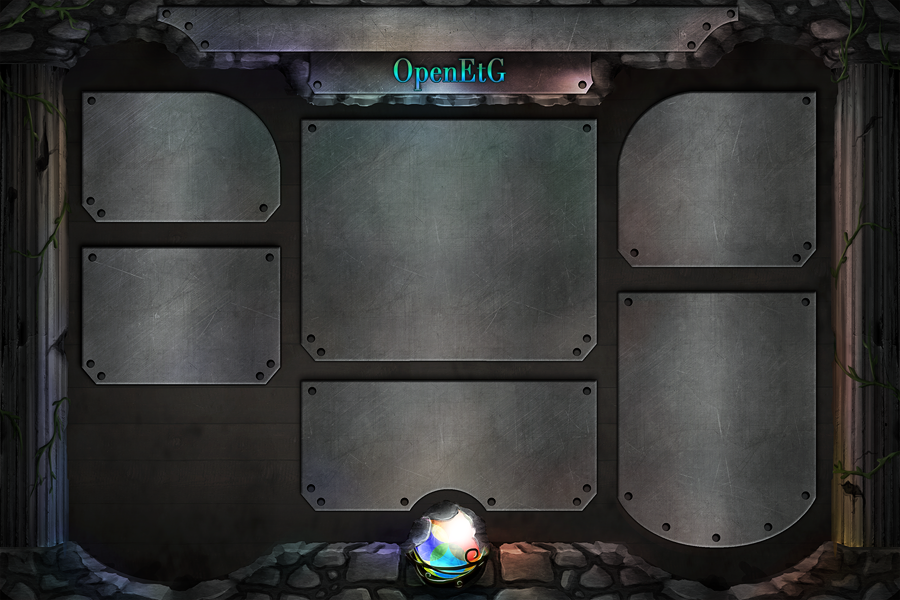
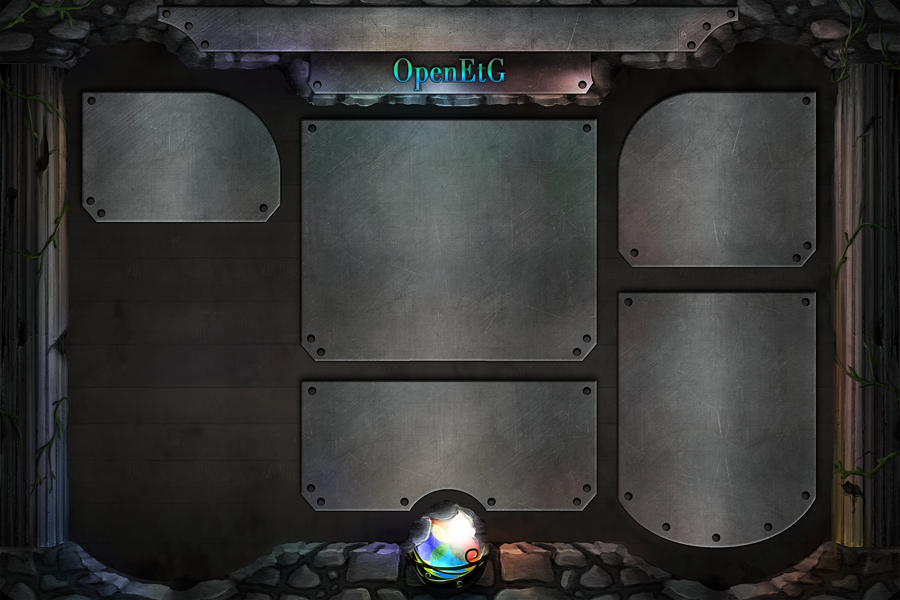
Fix changepass clearing, add mobile/kong friendly chat in main menu

Changed region(s): [[0.0622, 0.39, 0.3111, 0.66]]

diff --git a/views/MainMenu.js b/views/MainMenu.js
@@ -49,6 +49,7 @@ var tipjar = [
 	"At Wealth T50 you can see which players have the highest wealth. Wealth is a combination of current gold & one's cardpool",
 	"Throttling means that the effect is limited to 2 procs when attacking multiple times with adrenaline",
 ];
+var menuChat = chat.MainMenuChat;
 var bg_main = new Image();
 bg_main.src = "assets/bg_main.png";
 bg_main.className = "bgimg";
@@ -89,8 +90,9 @@ function initEndless(){
 }
 module.exports = function(nymph) {
 	var popdom, stage = {endnext: function(){
-		setPopup(null);
 		document.removeEventListener("mousemove", resetTip);
+		menuChat.style.display = "none";
+		return setPopup(null);
 	}};
 	function setPopup(ele){
 		if (popdom) document.body.removeChild(popdom);
@@ -149,12 +151,12 @@ module.exports = function(nymph) {
 	});
 	var div = stage.dom = dom.div(bg_main,
 		[196, 4, tipbox, tinfo, nextTip],
-		[86, 248, leadbox, titleText("Leaderboards"), bwealth, document.createElement("br")],
+		[626, 436, leadbox, titleText("Leaderboards"), bwealth, document.createElement("br")],
 		[304, 120, aibox, titleText("AI Battle")],
 		[620, 92, deckbox,
 			[14, 108, ["Editor", require("./Editor"), mkSetTip("Edit & manage your decks")]],
 		],
-		[620, 300, playbox]);
+		[616, 300, playbox]);
 	addCostRewardHeaders(aibox);
 	addCostRewardHeaders(arenabox);
 	[dom.button("Commoner", mkAi.mkAi(0), mkSetTip("Commoners have no upgraded cards & mostly common cards")),
@@ -224,6 +226,15 @@ module.exports = function(nymph) {
 			dom.add(div, [92, 340, oracle]);
 			dom.svgToSvg(oracle, svg.card(showcard));
 			if (sock.user.daily == 0) sock.user.daily = 128;
+		} else {
+			menuChat.style.display = "";
+			menuChat.scrollTop = menuChat.scrollHeight;
+			dom.add(div, [99, 532, dom.input("Chat", null, null, function (e){
+				if (e.keyCode == 13){
+					if (!this.value.match(/^\s*$/)) sock.userEmit("chat", {msg:this.value});
+					this.value = "";
+				}
+			})]);
 		}
 	}
 	document.addEventListener("mousemove", resetTip);
@@ -233,7 +244,6 @@ module.exports = function(nymph) {
 			sock.userEmit(cmd);
 			sock.user = undefined;
 			options.remember = false;
- 			if (typeof localStorage !== "undefined") delete localStorage.remember;
 		}
 		require("./Login")();
 	}
@@ -312,8 +322,7 @@ module.exports = function(nymph) {
 		dom.add(deckbox, deckLabel, quickslotsdiv);
 		var bsettings = dom.button("Settings", function() {
 			if (popdom && popdom.id == "settingspane"){
-				setPopup(null);
-				return;
+				return setPopup(null);
 			}
 			var div = dom.box(267, 156);
 			dom.style(div, {

diff --git a/chat.js b/chat.js
@@ -8,17 +8,21 @@ function addSpan(span, name) {
 	}else{
 		var tabBox = chatBox;
 	}
-	if (tabBox != tabMap.Main[0] && tabBox != tabMap.Stats[0]){
-		addSpan(span.cloneNode(true), "Main")
+	if (tabBox != tabMap.Main[0] && tabBox != tabMap.Stats[0] && name != "MainMenu"){
+		addSpan(span.cloneNode(true), "Main");
+	} else if (tabBox == tabMap.Main[0]) {
+		addSpan(span.cloneNode(true), "MainMenu");
 	}
 	span.appendChild(document.createElement("br"));
 	if (tabBox == chatBox){
-		var scroll = Math.abs(chatBox.scrollTop - chatBox.scrollHeight + chatBox.offsetHeight) < 2;
-		chatBox.appendChild(span);
-		if (scroll) chatBox.scrollTop = chatBox.scrollHeight;
+		var scroll = Math.abs(tabBox.scrollTop - tabBox.scrollHeight + tabBox.offsetHeight) < 2;
+		tabBox.appendChild(span);
+		if (scroll) tabBox.scrollTop = tabBox.scrollHeight;
 	}else{
 		tabBox.appendChild(span);
-		tab[1].style.fontWeight = "bold";
+		if (name == "MainMenu"){
+			tabBox.scrollTop = tabBox.scrollHeight;
+		}else tab[1].style.fontWeight = "bold";
 	}
 }
 function chat(msg, fontcolor, name) {
@@ -33,10 +37,10 @@ var tabMap = {};
 chat.addTab = function(name, div){
 	var span = document.createElement("span");
 	var tabBox = div || document.createElement("div");
-	tabBox.id = "chatBox";
+	tabBox.className = "chatBox";
 	tabMap[name] = [tabBox, span];
 	span.className = "tab";
-	span.appendChild(document.createTextNode(name));
+	span.appendChild(document.createTextNode(name + " "));
 	span.addEventListener("click", function(){
 		this.style.fontWeight = "";
 		if (chatBox != tabBox){
@@ -46,12 +50,25 @@ chat.addTab = function(name, div){
 		}
 		chatBox.scrollTop = chatBox.scrollHeight;
 	});
-	tabs.appendChild(document.createTextNode(" "));
 	tabs.appendChild(span);
 }
 chat.addTab("Main", chatBox);
 chat.addTab("System");
 chat.addTab("Stats");
+chat.addTab("MainMenu");
+tabMap.MainMenu[1].style.display = "none";
+var menuChat = chat.MainMenuChat = tabMap.MainMenu[0];
+menuChat.style.display = "none";
+menuChat.style.position = "absolute";
+menuChat.style.left = "72px";
+menuChat.style.top = "228px";
+menuChat.style.width = "224px";
+menuChat.style.height = "300px";
+menuChat.style.overflow = "hidden";
+menuChat.style.background = "transparent";
+menuChat.style.fontSize = "14px";
+menuChat.style.opacity = "0.6";
+document.body.appendChild(menuChat);
 chat.addSpan = addSpan;
 chat.clear = function(name){
 	if (name){

diff --git a/server.js b/server.js
@@ -393,7 +393,7 @@ const userEvents = {
 			user.salt = "";
 			user.iter = 0;
 			user.auth = user.name;
-			sockEmit(this, "passchange", {auth: user.name});
+			sockEmit(this, "passchange", {auth: ""});
 		}else{
 			sutil.initsalt(user);
 			require("crypto").pbkdf2(data.p, user.salt, user.iter, 64, (err, key) => {

diff --git a/ui.css b/ui.css
@@ -115,7 +115,7 @@ input[type="text"],input[type="password"],input:not([type]){width:150px;border:2
 	top:0px;
 	position:absolute;
 }
-#chatBox{
+.chatBox{
 	width:350px;
 	height:488px;
 	overflow-y:auto;
